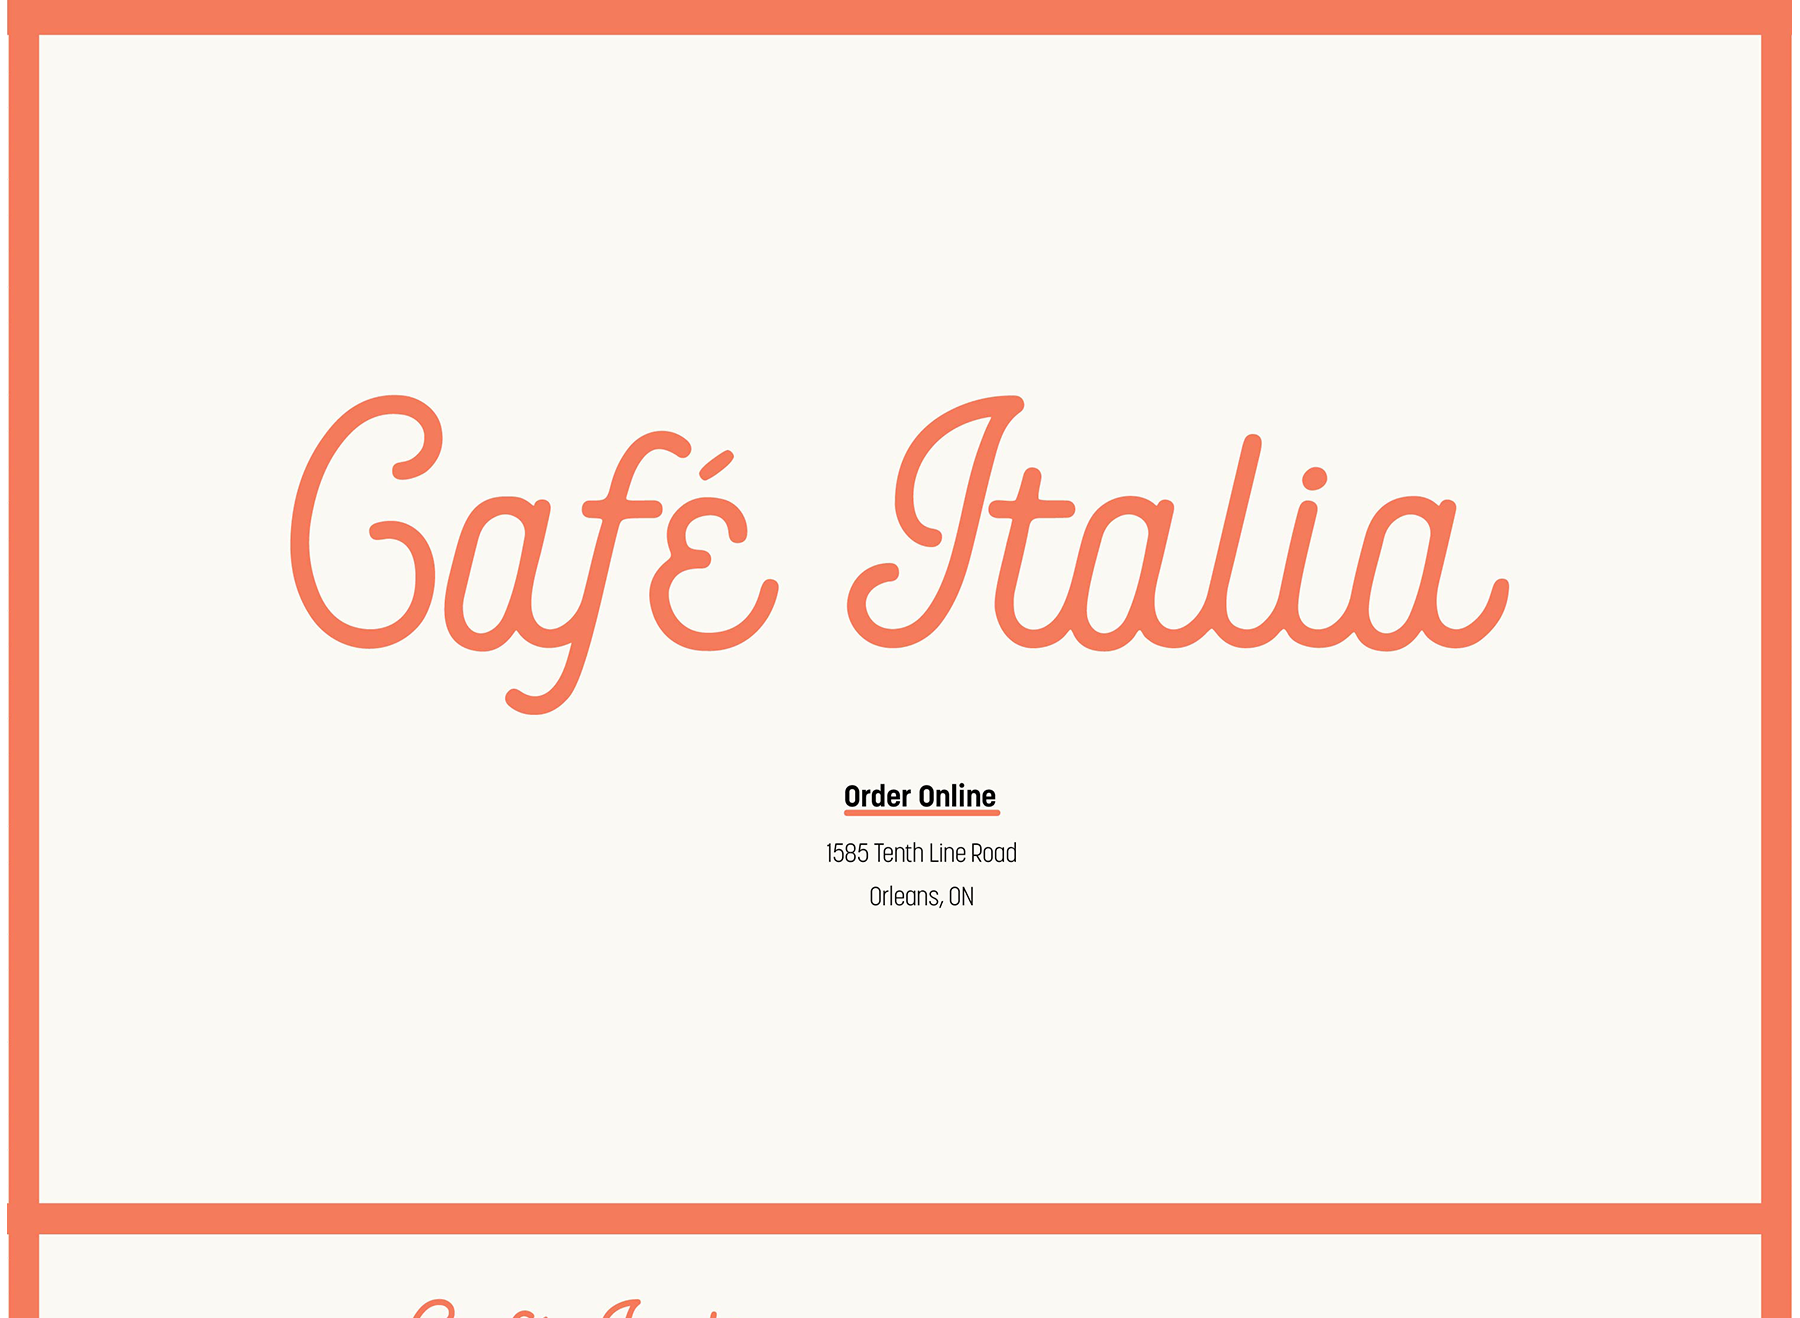
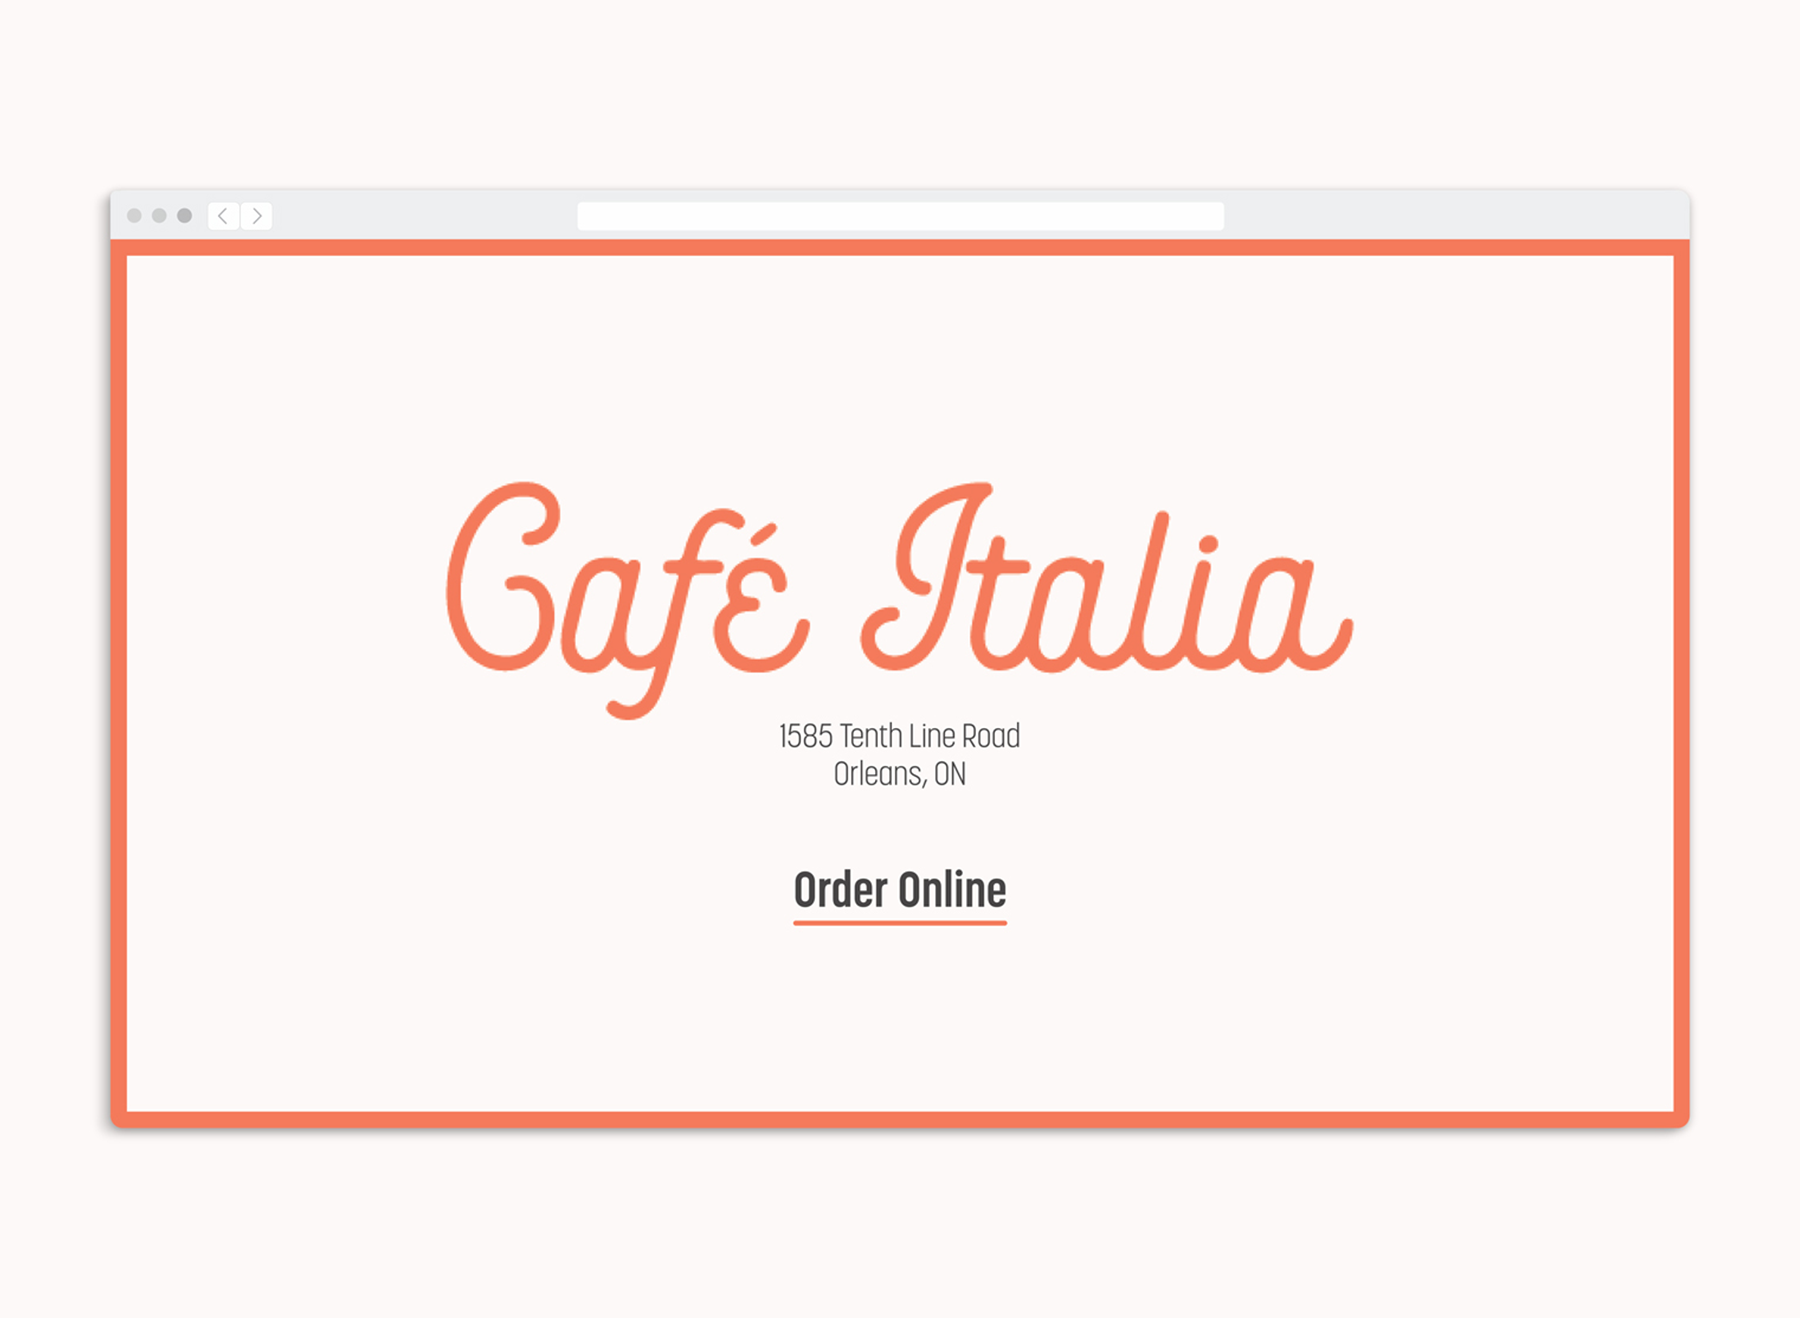
updates

Changed region(s): [[0.0, 0.0, 0.9956, 1.0], [0.1556, 0.28, 0.84, 0.7155], [0.2178, 0.9954, 0.4044, 1.0]]

diff --git a/index-10.html b/index-10.html
@@ -33,18 +33,18 @@
 
 <div class="grid grid-middle space-after2x island3x">
   <div class="unit xs-1 s-1 m-1 l-1 island3x unit-l-centered content-shrink">
-    <img class="flex center-img" src="img/design/JF_WEB_KINSHASA_DOCUMENTARY_1.png" alt="">
+    <img class="flex center-img" src="img/design/JF_WEB_LAURYNHILL_WEBSITE_1.png" alt="">
   </div>
 </div>
 
 
   <div class="grid space-after-small">
     <div class="unit xs-1 s-1 m-1-2 l-1-2 unit-content-distribute">
-      <div class="unit"><h2 class="space-after index-h2 sans-reg small-2 uppercase space-top pad-l3x">La Belle Kin &nbsp; &nbsp; Documentary Photography</h2></div>
+      <div class="unit"><h2 class="space-after index-h2 sans-reg small-2 uppercase space-top pad-l3x ">Daily UI &nbsp; &nbsp; Concert Website &nbsp; &nbsp; Photo: Jennifer Yaya Falanga</h2></div>
     </div>
 
     <div class="unit xs-1 s-1 m-1-2 l-1-2 unit-content-distribute">
-      <div class="unit"><a href="index-5.html"><h2 class="space-after index-h2 sans-reg small-2 uppercase right space-top pad-l3x ">Next</h2></a></div>
+      <div class="unit"><a href="index.html"><h2 class="space-after index-h2 sans-reg small-2 uppercase right space-top pad-l3x ">Next</h2></a></div>
     </div>
 
   </div>

diff --git a/index-9.html b/index-9.html
@@ -33,18 +33,18 @@
 
 <div class="grid grid-middle space-after2x island3x">
   <div class="unit xs-1 s-1 m-1 l-1 island3x unit-l-centered content-shrink">
-    <img class="flex center-img" src="img/design/JF_WEB_KINSHASA_DOCUMENTARY_1.png" alt="">
+    <img class="flex center-img" src="img/design/JF_WEB_KINSHASA_DOCUMENTARY_2.png" alt="">
   </div>
 </div>
 
 
   <div class="grid space-after-small">
     <div class="unit xs-1 s-1 m-1-2 l-1-2 unit-content-distribute">
-      <div class="unit"><h2 class="space-after index-h2 sans-reg small-2 uppercase space-top pad-l3x">La Belle Kin &nbsp; &nbsp; Documentary Photography</h2></div>
+      <div class="unit"><h2 class="space-after index-h2 sans-reg small-2 uppercase space-top pad-l3x ">La Belle Kin &nbsp; &nbsp; Documentary Photography</h2></div>
     </div>
 
     <div class="unit xs-1 s-1 m-1-2 l-1-2 unit-content-distribute">
-      <div class="unit"><a href="index-5.html"><h2 class="space-after index-h2 sans-reg small-2 uppercase right space-top pad-l3x ">Next</h2></a></div>
+      <div class="unit"><a href="index-10.html"><h2 class="space-after index-h2 sans-reg small-2 uppercase right space-top pad-l3x ">Next</h2></a></div>
     </div>
 
   </div>

diff --git a/index-8.html b/index-8.html
@@ -33,18 +33,18 @@
 
 <div class="grid grid-middle space-after2x island3x">
   <div class="unit xs-1 s-1 m-1 l-1 island3x unit-l-centered content-shrink">
-    <img class="flex center-img" src="img/design/JF_WEB_KINSHASA_DOCUMENTARY_1.png" alt="">
+    <img class="flex center-img" src="img/design/JF_WEB_CAFEITALIA_WEBSITE_1.png" alt="">
   </div>
 </div>
 
 
   <div class="grid space-after-small">
     <div class="unit xs-1 s-1 m-1-2 l-1-2 unit-content-distribute">
-      <div class="unit"><h2 class="space-after index-h2 sans-reg small-2 uppercase space-top pad-l3x">La Belle Kin &nbsp; &nbsp; Documentary Photography</h2></div>
+      <div class="unit"><h2 class="space-after index-h2 sans-reg small-2 uppercase space-top pad-l3x ">CAFé Italia &nbsp; &nbsp; WEBSITE DESIGN & LOGOMARK</h2></div>
     </div>
 
     <div class="unit xs-1 s-1 m-1-2 l-1-2 unit-content-distribute">
-      <div class="unit"><a href="index-5.html"><h2 class="space-after index-h2 sans-reg small-2 uppercase right space-top pad-l3x ">Next</h2></a></div>
+      <div class="unit"><a href="index-9.html"><h2 class="space-after index-h2 sans-reg small-2 uppercase right space-top pad-l3x ">Next</h2></a></div>
     </div>
 
   </div>

diff --git a/index-7.html b/index-7.html
@@ -33,18 +33,18 @@
 
 <div class="grid grid-middle space-after2x island3x">
   <div class="unit xs-1 s-1 m-1 l-1 island3x unit-l-centered content-shrink">
-    <img class="flex center-img" src="img/design/JF_WEB_KINSHASA_DOCUMENTARY_1.png" alt="">
+    <img class="flex center-img" src="img/design/JF_WEB_SIMUTECH_PRINT_1.png" alt="">
   </div>
 </div>
 
 
   <div class="grid space-after-small">
     <div class="unit xs-1 s-1 m-1-2 l-1-2 unit-content-distribute">
-      <div class="unit"><h2 class="space-after index-h2 sans-reg small-2 uppercase space-top pad-l3x">La Belle Kin &nbsp; &nbsp; Documentary Photography</h2></div>
+      <div class="unit"><h2 class="space-after index-h2 sans-reg small-2 uppercase space-top pad-l3x ">SIMUTECH MULTIMEDIA &nbsp; &nbsp; WHITEPAPER DESIGN</h2></div>
     </div>
 
     <div class="unit xs-1 s-1 m-1-2 l-1-2 unit-content-distribute">
-      <div class="unit"><a href="index-5.html"><h2 class="space-after index-h2 sans-reg small-2 uppercase right space-top pad-l3x ">Next</h2></a></div>
+      <div class="unit"><a href="index-8.html"><h2 class="space-after index-h2 sans-reg small-2 uppercase right space-top pad-l3x ">Next</h2></a></div>
     </div>
 
   </div>

diff --git a/index-5.html b/index-5.html
@@ -40,7 +40,7 @@
 
   <div class="grid space-after-small">
     <div class="unit xs-1 s-1 m-1-2 l-1-2 unit-content-distribute">
-      <div class="unit"><h2 class="space-after index-h2 sans-reg small-2 uppercase space-top pad-l3x ">The Unconscious Civilization &nbsp; &nbsp; Cover Redesign</h2></div>
+      <div class="unit"><h2 class="space-after index-h2 sans-reg small-2 uppercase space-top pad-l3x">The Unconscious Civilization &nbsp; &nbsp; Cover Redesign</h2></div>
     </div>
 
     <div class="unit xs-1 s-1 m-1-2 l-1-2 unit-content-distribute">

diff --git a/index-6.html b/index-6.html
@@ -44,7 +44,7 @@
     </div>
 
     <div class="unit xs-1 s-1 m-1-2 l-1-2 unit-content-distribute">
-      <div class="unit"><a href="index.html"><h2 class="space-after index-h2 sans-reg small-2 uppercase right space-top pad-l3x ">Next</h2></a></div>
+      <div class="unit"><a href="index-7.html"><h2 class="space-after index-h2 sans-reg small-2 uppercase right space-top pad-l3x ">Next</h2></a></div>
     </div>
 
   </div>

diff --git a/index.html b/index.html
@@ -33,7 +33,7 @@
 
 <div class="grid grid-middle space-after2x island3x">
   <div class="unit xs-1 s-1 m-1 l-1 island3x unit-l-centered content-shrink">
-    <img class="flex center-img" src="img/design/JF_WEB_LESBOYS_BRAND_1.jpg" alt="">
+    <img class="flex center-img" src="img/design/JF_WEB_LESBOYS_BRAND_1.png" alt="">
   </div>
 </div>
 
